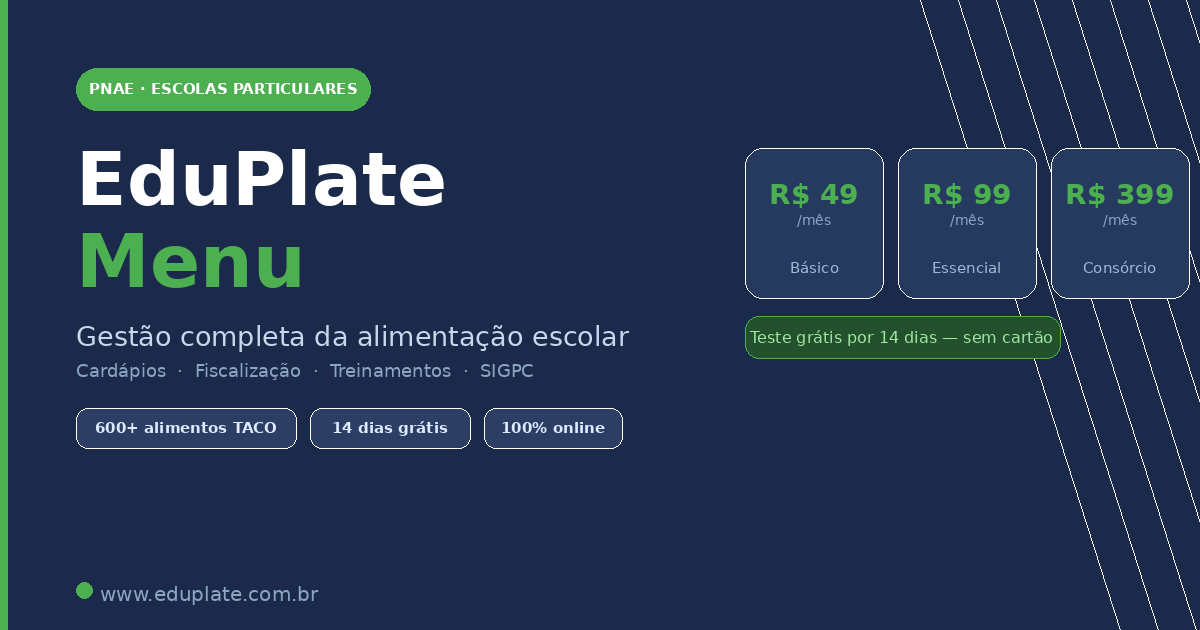
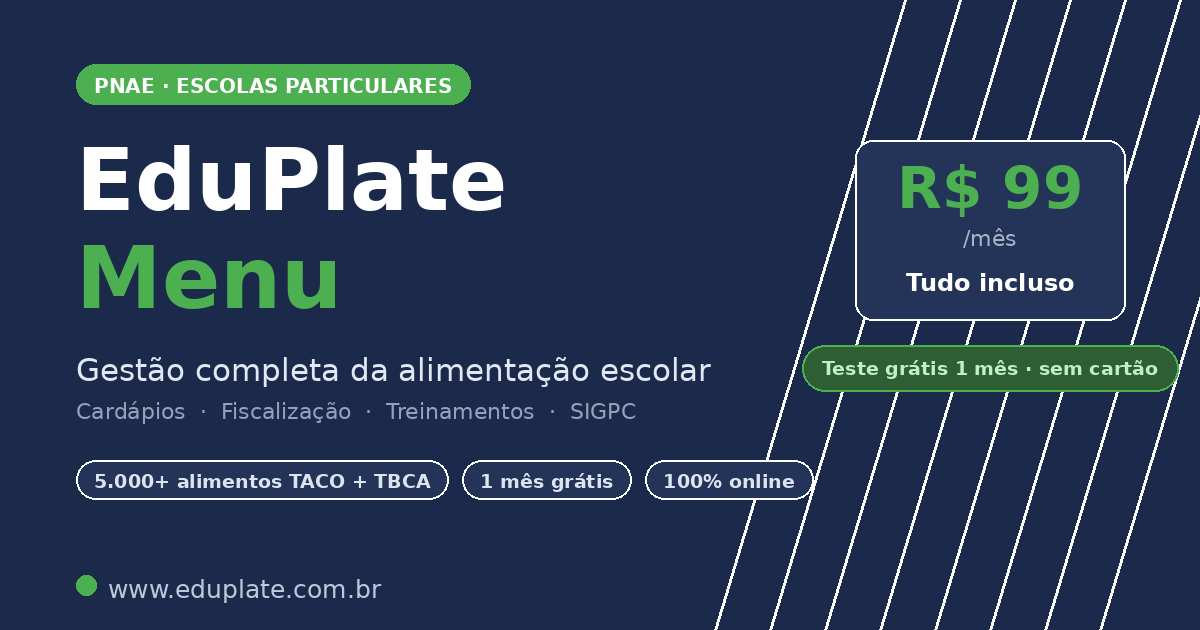
chore: atualizacoes do sistema

diff --git a/client/src/pages/Pricing.tsx b/client/src/pages/Pricing.tsx
@@ -7,6 +7,15 @@ import { Input } from '@/components/ui/input';
 import { apiUrl, authHeaders } from '@/lib/apiUrl';
 
 type PlanKey = 'essencial' | 'pro' | 'enterprise';
+type BillingPeriod = 'mensal' | 'semestral' | 'anual';
+
+interface PlanPricing {
+  price: string;
+  label: string;
+  old: string | null;
+  equiv: string | null;
+  discount: string | null;
+}
 
 interface Plan {
   key: PlanKey;
@@ -15,8 +24,7 @@ interface Plan {
   icon: React.ReactNode;
   highlight: boolean;
   features: string[];
-  price: string;
-  label: string;
+  pricing: Record<BillingPeriod, PlanPricing>;
 }
 
 // Plano único — acesso completo a todos os módulos.
@@ -39,8 +47,11 @@ const PLANS: Plan[] = [
       'Produção, sobras e testes de aceitabilidade',
       'Suporte prioritário',
     ],
-    price: 'R$ 99',
-    label: '/mês',
+    pricing: {
+      mensal:    { price: 'R$ 99',  label: '/mês',      old: null,          equiv: null,             discount: null },
+      semestral: { price: 'R$ 505', label: '/semestre', old: 'De R$ 594',   equiv: '≈ R$ 84,17/mês', discount: '15% OFF' },
+      anual:     { price: 'R$ 832', label: '/ano',      old: 'De R$ 1.188', equiv: '≈ R$ 69,33/mês', discount: '30% OFF' },
+    },
   },
 ];
 
@@ -48,6 +59,10 @@ const FAQS = [
   {
     q: 'Preciso de cartão de crédito para o 1 mês grátis?',
     a: 'Não. O cadastro é totalmente gratuito e sem cartão. Você só precisa informar uma forma de pagamento quando o trial de 30 dias estiver prestes a terminar — e apenas se quiser continuar.',
+  },
+  {
+    q: 'Qual a diferença entre mensal, semestral e anual?',
+    a: 'O plano é o mesmo — acesso completo a tudo. Muda só a forma de pagar: no semestral você economiza 15% (R$505 a cada 6 meses, ≈R$84/mês) e no anual, 30% (R$832/ano, ≈R$69/mês). Todos incluem os 30 dias de teste grátis.',
   },
   {
     q: 'A prefeitura pode pagar com empenho ou nota de empenho?',
@@ -75,6 +90,7 @@ export default function Pricing() {
   const { user, loading: authLoading } = useAuth();
   const { status, plan: currentPlan } = useSubscription();
   const [loading, setLoading] = useState<PlanKey | null>(null);
+  const [billingPeriod, setBillingPeriod] = useState<BillingPeriod>('mensal');
   const [openFaq, setOpenFaq] = useState<number | null>(null);
 
   // Email modal for non-logged-in visitors
@@ -97,6 +113,7 @@ export default function Pricing() {
           body: JSON.stringify({
             orgId: user.organizationId,
             plan: planKey,
+            period: billingPeriod,
             userId: user.uid,
             userEmail: user.email,
             orgName: user.organizationId,
@@ -126,7 +143,7 @@ export default function Pricing() {
       const res = await fetch(apiUrl('/api/stripe/checkout-new'), {
         method: 'POST',
         headers: { 'Content-Type': 'application/json' },
-        body: JSON.stringify({ email: emailInput.trim(), plan: planKey }),
+        body: JSON.stringify({ email: emailInput.trim(), plan: planKey, period: billingPeriod }),
       });
       const data = await res.json();
       if (!res.ok) throw new Error(data.error || 'Erro ao criar sessão de pagamento.');
@@ -167,8 +184,44 @@ export default function Pricing() {
 
       <div className="max-w-5xl mx-auto px-4 -mt-6 pb-20">
 
+        {/* ── Toggle de período ─────────────────────────────────────── */}
+        <div className="flex justify-center mt-10 mb-2">
+          <div style={{ display:'flex', gap:4, background:'#F1F5F9', borderRadius:99, padding:4 }}>
+            {(['mensal','semestral','anual'] as const).map(p => (
+              <button
+                key={p}
+                onClick={() => setBillingPeriod(p)}
+                style={{
+                  padding:'10px 24px', borderRadius:99, fontSize:14, fontWeight:700,
+                  border:'none', cursor:'pointer', position:'relative',
+                  background: billingPeriod === p ? '#fff' : 'transparent',
+                  color: billingPeriod === p ? '#1B2A4A' : '#64748B',
+                  boxShadow: billingPeriod === p ? '0 2px 8px rgba(27,42,74,0.12)' : 'none',
+                  transition:'all 0.18s',
+                }}
+              >
+                {p === 'mensal' ? 'Mensal' : p === 'semestral' ? 'Semestral' : 'Anual'}
+                {p === 'semestral' && billingPeriod !== 'semestral' && (
+                  <span style={{
+                    position:'absolute', top:-10, right:-2,
+                    background:'#4CAF50', color:'#fff', fontSize:9,
+                    fontWeight:800, borderRadius:99, padding:'2px 6px',
+                  }}>−15%</span>
+                )}
+                {p === 'anual' && billingPeriod !== 'anual' && (
+                  <span style={{
+                    position:'absolute', top:-10, right:-2,
+                    background:'#1A73E8', color:'#fff', fontSize:9,
+                    fontWeight:800, borderRadius:99, padding:'2px 6px',
+                  }}>−30%</span>
+                )}
+              </button>
+            ))}
+          </div>
+        </div>
+
         {/* Plan cards */}
-        <div className="flex justify-center mb-12 mt-12">
+        <div className="flex justify-center mb-12 mt-6">
           {PLANS.map((plan) => {
             const isCurrent = currentPlan === plan.key && status === 'active';
             return (
@@ -192,10 +245,24 @@ export default function Pricing() {
                 </div>
 
                 {/* Price */}
+                {(() => { const pricing = plan.pricing[billingPeriod]; return (<>
+                {pricing.discount && (
+                  <span className="inline-block text-xs font-extrabold px-2 py-0.5 rounded-full mb-2 w-fit"
+                    style={{ background:'linear-gradient(135deg,#FF5722,#FF7043)', color:'#fff' }}>
+                    🔥 {pricing.discount}
+                  </span>
+                )}
+                {pricing.old && (
+                  <p className="text-sm line-through text-gray-400 mb-0.5">{pricing.old}</p>
+                )}
                 <div className="flex items-baseline gap-1 mb-1">
-                  <span className="text-5xl font-extrabold text-gray-900">{plan.price}</span>
-                  <span className="text-gray-400 text-sm">{plan.label}</span>
+                  <span className="text-5xl font-extrabold text-gray-900">{pricing.price}</span>
+                  <span className="text-gray-400 text-sm">{pricing.label}</span>
                 </div>
+                {pricing.equiv && (
+                  <p className="text-xs text-gray-400 mb-1">{pricing.equiv}</p>
+                )}
+                </>); })()}
                 <p className="text-xs text-gray-400 mb-2">30 dias grátis para testar · cancele quando quiser</p>
 
                 <p className="text-gray-500 text-sm mb-6">{plan.description}</p>

diff --git a/client/src/pages/LandingPage.tsx b/client/src/pages/LandingPage.tsx
@@ -22,7 +22,7 @@ const FEATURES = [
   { icon: <FolderOpen size={22} color="#fff" />, bg: 'linear-gradient(135deg,#9C27B0,#BA68C8)', title: 'Documentos com validade', desc: 'Controle alvarás, RDC 216, PNAE e outros — alertas automáticos antes do vencimento.' },
   { icon: <BarChart2 size={22} color="#fff" />, bg: 'linear-gradient(135deg,#E91E63,#F06292)', title: 'Relatório SIGPC/FNDE', desc: 'Dados preenchidos automaticamente do sistema. Gere o PDF do SIGPC com um clique, por quadrimestre.' },
   { icon: <Users size={22} color="#fff" />, bg: 'linear-gradient(135deg,#00BCD4,#4DD0E1)', title: 'Dietas especiais', desc: 'Centralize restrições alimentares de alunos com etiquetas, prescrições e acompanhamento por escola.' },
-  { icon: <BarChart2 size={22} color="#fff" />, bg: 'linear-gradient(135deg,#43A047,#1B5E20)', title: 'Banco de 600+ alimentos (TACO/UNICAMP)', desc: 'Banco de alimentos baseado na Tabela TACO/UNICAMP com cálculo automático dos nutrientes obrigatórios pelo PNAE — kcal, proteínas, ferro, zinco, vitaminas A e C e mais.' },
+  { icon: <BarChart2 size={22} color="#fff" />, bg: 'linear-gradient(135deg,#43A047,#1B5E20)', title: 'Banco de 5.000+ alimentos (TACO + TBCA)', desc: 'Banco de alimentos baseado nas tabelas TACO/UNICAMP e TBCA/USP com cálculo automático dos nutrientes obrigatórios pelo PNAE — kcal, proteínas, ferro, zinco, vitaminas A e C e mais.' },
 ];
 
 // ─── FAQ ──────────────────────────────────────────────────────────────────────
@@ -412,7 +412,7 @@ export default function LandingPage() {
             {[
               { icon: <Clock size={20} color="#4CAF50" />, big:'1 mês', label:'de acesso grátis para testar' },
               { icon: <Wifi size={20} color="#1A73E8" />, big:'100%', label:'online e na nuvem' },
-              { icon: <ShieldCheck size={20} color="#4CAF50" />, big:'600+', label:'alimentos TACO com nutrientes calculados automaticamente' },
+              { icon: <ShieldCheck size={20} color="#4CAF50" />, big:'5.000+', label:'alimentos (TACO + TBCA) com nutrientes calculados automaticamente' },
               { icon: <Award size={20} color="#FF9800" />, big:'1 dia', label:'para começar a operar' },
             ].map(s => (
               <div key={s.big} className="lp-stat">
@@ -552,15 +552,15 @@ export default function LandingPage() {
                   </div>
                   <span style={{ fontSize: 11, fontWeight: 700, color: 'rgba(255,255,255,0.5)', textTransform: 'uppercase', letterSpacing: 1 }}>Diferencial exclusivo</span>
                 </div>
-                <h3 style={{ color: '#fff', fontSize: '1.25rem' }}>Banco de 600+ alimentos com cálculo nutricional automático</h3>
+                <h3 style={{ color: '#fff', fontSize: '1.25rem' }}>Banco de 5.000+ alimentos com cálculo nutricional automático</h3>
                 <p style={{ color: 'rgba(255,255,255,0.65)', fontSize: 14, marginTop: 10, lineHeight: 1.65 }}>
-                  O EduPlate Menu inclui banco de alimentos baseado na <strong style={{ color: '#81C784' }}>Tabela TACO (UNICAMP)</strong> — o padrão de referência do PNAE. Monte receitas e o sistema calcula automaticamente kcal, proteínas, carboidratos, ferro, vitaminas e muito mais, por porção.
+                  O EduPlate Menu inclui banco de alimentos baseado nas tabelas <strong style={{ color: '#81C784' }}>TACO (UNICAMP) e TBCA (USP)</strong> — as referências oficiais do PNAE. Monte receitas e o sistema calcula automaticamente kcal, proteínas, carboidratos, ferro, vitaminas e muito mais, por porção.
                 </p>
               </div>
               <div style={{ display: 'grid', gridTemplateColumns: 'repeat(2, minmax(0, 1fr))', gap: 12, width: '100%' }}>
                 {[
-                  { n: '600+', l: 'alimentos cadastrados' },
-                  { n: 'TACO', l: 'Tabela UNICAMP' },
+                  { n: '5.000+', l: 'alimentos cadastrados' },
+                  { n: 'TACO+TBCA', l: 'tabelas oficiais' },
                   { n: 'PNAE', l: 'nutrientes PNAE calculados' },
                   { n: '1 clique', l: 'para gerar ficha técnica' },
                 ].map(s => (
@@ -679,7 +679,7 @@ export default function LandingPage() {
               <video
                 controls
                 preload="none"
-                poster="/og-image.png"
+                poster="/video-poster.png"
                 style={{ width:'100%', display:'block', maxHeight:480, background:'#000' }}
               >
                 <source src="/demo-cardapio.mp4" type="video/mp4" />
@@ -740,7 +740,7 @@ export default function LandingPage() {
             </p>
             <div style={{ display:'flex', flexWrap:'wrap', gap:12, justifyContent:'center', marginTop:8 }}>
               {[
-                'Banco TACO/UNICAMP integrado',
+                'Banco TACO + TBCA integrado',
                 'Relatório SIGPC com 1 clique',
                 'Certificados com assinatura digital',
                 'Checklist de fiscalização completo',
@@ -856,8 +856,11 @@ export default function LandingPage() {
                 <div className="lp-price">
                   R$ 99 <small>/mês</small>
                 </div>
-                <p style={{ fontSize:12, color:'var(--lp-muted)', marginTop:-4, marginBottom:8 }}>
+                <p style={{ fontSize:12, color:'var(--lp-muted)', marginTop:-4, marginBottom:4 }}>
                   30 dias grátis para testar · cancele quando quiser
+                </p>
+                <p style={{ fontSize:12, color:'var(--lp-muted)', marginBottom:8 }}>
+                  Ou economize: <strong>semestral R$ 505</strong> (≈ R$ 84/mês · −15%) · <strong>anual R$ 832</strong> (≈ R$ 69/mês · −30%)
                 </p>
                 <ul className="lp-price-list">
                   {['Usuários ilimitados','Cardápios e fichas técnicas — 5.000+ alimentos (TACO + TBCA)','Replicação de cardápio por etapa de ensino','Fiscalização de escolas com score e relatório','Treinamentos com certificado por QR Code','Dietas especiais de alunos com etiquetas','Documentos com alerta de vencimento','Relatório SIGPC/FNDE com um clique','Envio de cardápio por e-mail às escolas','Suporte prioritário'].map(i => (

diff --git a/server/stripe.ts b/server/stripe.ts
@@ -38,9 +38,22 @@ export const PLANS = {
 
 export type PlanKey = keyof typeof PLANS;
 
-/** Plano único: retorna sempre o mesmo Price ID, independente de plano/período. */
-function getPriceId(_plan: PlanKey, _period: BillingPeriod = 'mensal'): string {
-  return process.env.STRIPE_PRICE_UNICO || process.env.STRIPE_PRICE_PRO || '';
+/**
+ * Plano único com 3 períodos de cobrança. Independente da chave de plano
+ * enviada pelo client, o preço vem só do PERÍODO:
+ *   mensal    → STRIPE_PRICE_UNICO            (ou STRIPE_PRICE_PRO, R$99/mês)
+ *   semestral → STRIPE_PRICE_UNICO_SEMESTRAL  (ou STRIPE_PRICE_PRO_SEMESTRAL, R$505)
+ *   anual     → STRIPE_PRICE_UNICO_ANUAL      (ou STRIPE_PRICE_PRO_ANUAL, R$832)
+ */
+function getPriceId(_plan: PlanKey, period: BillingPeriod = 'mensal'): string {
+  switch (period) {
+    case 'semestral':
+      return process.env.STRIPE_PRICE_UNICO_SEMESTRAL || process.env.STRIPE_PRICE_PRO_SEMESTRAL || '';
+    case 'anual':
+      return process.env.STRIPE_PRICE_UNICO_ANUAL || process.env.STRIPE_PRICE_PRO_ANUAL || '';
+    default:
+      return process.env.STRIPE_PRICE_UNICO || process.env.STRIPE_PRICE_PRO || '';
+  }
 }
 
 // ── Stripe client (lazy-init so missing key doesn't crash on startup) ─────────

diff --git a/client/index.html b/client/index.html
@@ -66,8 +66,12 @@
       "operatingSystem": "Web",
       "description": "Plataforma especialista em PNAE para gestão da alimentação escolar municipal.",
       "offers": [
-        { "@type": "Offer", "name": "EduPlate Menu — plano único", "priceCurrency": "BRL",
-          "priceSpecification": { "@type": "UnitPriceSpecification", "price": "99", "priceCurrency": "BRL", "unitText": "mês", "billingDuration": 1 } }
+        { "@type": "Offer", "name": "EduPlate Menu — mensal", "priceCurrency": "BRL",
+          "priceSpecification": { "@type": "UnitPriceSpecification", "price": "99", "priceCurrency": "BRL", "unitText": "mês", "billingDuration": 1 } },
+        { "@type": "Offer", "name": "EduPlate Menu — semestral", "priceCurrency": "BRL",
+          "priceSpecification": { "@type": "UnitPriceSpecification", "price": "505", "priceCurrency": "BRL", "unitText": "semestre", "billingDuration": 6 } },
+        { "@type": "Offer", "name": "EduPlate Menu — anual", "priceCurrency": "BRL",
+          "priceSpecification": { "@type": "UnitPriceSpecification", "price": "832", "priceCurrency": "BRL", "unitText": "ano", "billingDuration": 12 } }
       ],
       "author": {
         "@type": "Organization",
